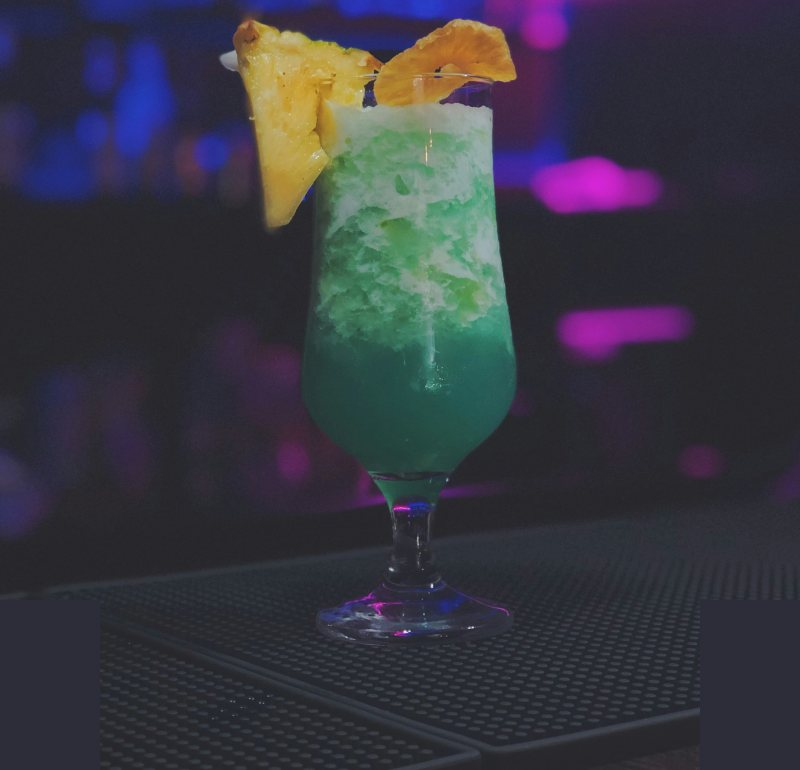
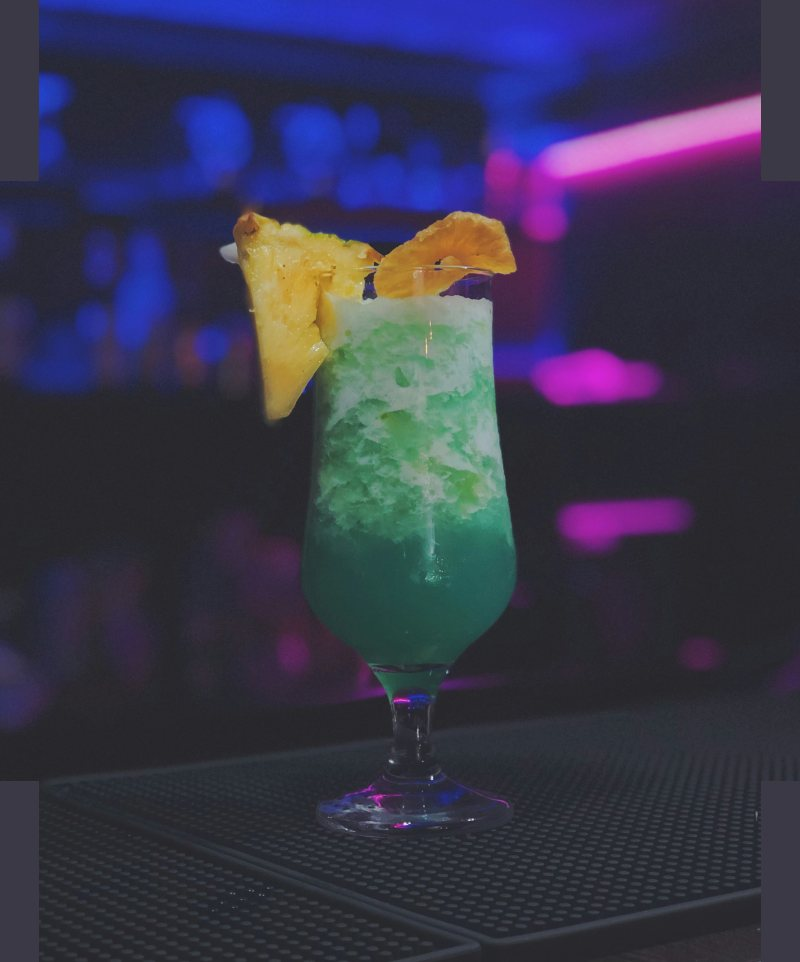
Photos en croix centrées sur le verre (v0.40.0)
- Les cadrages paysage et portrait partagent un même centre, placé au plus près
  du verre (en x et en y) ; la colonne portrait déborde en haut et en bas.
- Hauteur 600 à 1000 px selon la place disponible dans la photo d'origine ;
  bande paysage plus serrée sur les photos larges pour laisser une croix (Boulevardier…).
- Barracuda en 800 × 800, verre au centre.
- Affichage : chaque cadre (4:3, 16:9, 3:4, carré) est centré sur l'image.

Claude-Session: https://claude.ai/code/session_01MGrXtKPwEujzpoV9NF5CqB

diff --git a/app.css b/app.css
@@ -254,14 +254,15 @@ input[type=radio]{accent-color:var(--accent)}
 .card:hover{border-color:var(--muted);transform:translateY(-2px)}
 .cv{position:relative;overflow:hidden;aspect-ratio:4/3;max-width:100%;background:var(--surface-2);background:color-mix(in srgb,var(--c) 18%,var(--surface-2));display:grid;place-items:center;color:var(--fg)}
 .cv .glass{height:84%;width:auto}
-/* Photos : celles du catalogue sont « en croix » (800 px de large, 600 à 800 de haut) : les 600 px du haut forment le cadrage paysage,
-   la colonne centrale (3/4 de la largeur) le cadrage portrait ; les coins du bas ne servent à rien. --r = largeur / hauteur de l'image,
-   renseigné au chargement. On calcule la plus petite taille qui couvre le cadre sans sortir de l'une des deux zones :
-   ancrée en haut, la photo ne coupe jamais le haut du verre. Une photo 4:3 (prise dans l'appli) s'affiche comme un « cover » ancré en haut. */
+/* Photos : celles du catalogue sont « en croix » (800 px de large, 600 à 1000 de haut), centrées sur le verre :
+   la bande centrale de 600 px de haut forme le cadrage paysage (4:3), la colonne centrale (3/4 de la hauteur en largeur)
+   le cadrage portrait (3:4) ; les quatre coins ne servent à rien. --r = largeur / hauteur de l'image, renseigné au chargement.
+   On calcule la plus petite taille qui couvre le cadre sans sortir de l'une des deux zones, image centrée :
+   chaque cadre (4:3, 16:9, 3:4, carré…) reste centré sur le verre. Une photo 4:3 s'affiche comme un simple « cover » centré. */
 .cv,.dhero,.photo-prev,.lthumb,.mosaic>span,.moment-v{container-type:size}
-.cv img,.dhero img,.photo-prev img,.lthumb img,.mosaic img,.moment-v img{position:absolute;inset:auto;top:0;left:50%;transform:translateX(-50%);max-width:none;height:auto;object-fit:fill;display:block;
+.cv img,.dhero img,.photo-prev img,.lthumb img,.mosaic img,.moment-v img{position:absolute;inset:auto;top:50%;left:50%;transform:translate(-50%,-50%);max-width:none;height:auto;object-fit:fill;display:block;
   width:min(max(100cqw,133.334cqh),max(calc(133.334cqw * var(--r,1.3334)),calc(100cqh * var(--r,1.3334))))}
-@supports not (width:1cqw){.cv img,.dhero img,.photo-prev img,.lthumb img,.mosaic img,.moment-v img{inset:0;left:0;transform:none;width:100%;height:100%;object-fit:cover;object-position:50% 0}}
+@supports not (width:1cqw){.cv img,.dhero img,.photo-prev img,.lthumb img,.mosaic img,.moment-v img{inset:0;left:0;top:0;transform:none;width:100%;height:100%;object-fit:cover}}
 .pill{position:absolute;top:8px;left:8px;font:600 11px var(--font-body);padding:3px 8px;border-radius:99px;background:var(--surface);border:1px solid var(--line);color:var(--muted)}
 .pill.ok{background:var(--ok);border-color:var(--ok);color:var(--surface)}
 .pill.sub{color:var(--ok);border-color:var(--ok)}

diff --git a/app.js b/app.js
@@ -1,7 +1,7 @@
 /* Zeste : logique de l'application. Les données de départ sont dans data.js. */
 'use strict';
 
-const APP_VERSION = '0.39.0';
+const APP_VERSION = '0.40.0';
 const KEY = 'zeste-v1';
 const UNITS = ['ml', 'cl', ['oz', 'oz (→ ml)'], ['cup', 'cup (→ ml)'], 'g', ['', 'sans unité'], 'trait', 'goutte', 'c. de bar', 'c. à café', 'c. à soupe', 'pièce', 'feuille', 'brin', 'quartier', 'tranche', 'pincée', 'à compléter'];
 const PLURAL_UNITS = ['trait', 'goutte', 'pièce', 'feuille', 'brin', 'quartier', 'tranche', 'pincée'];
@@ -1480,7 +1480,7 @@ function openCrop(src) {
   const img = new Image();
   img.onload = () => {
     CROP.img = img; CROP.zoom = 1; $('#crop-zoom').value = 1; $('#crop-img').src = src; $('#crop').hidden = false; lockScroll();
-    requestAnimationFrame(() => { const f = $('#crop-frame'); CROP.W = f.clientWidth; CROP.H = f.clientHeight; CROP.s0 = Math.max(CROP.W / img.naturalWidth, CROP.H / img.naturalHeight); CROP.s = CROP.s0; CROP.x = (CROP.W - img.naturalWidth * CROP.s) / 2; CROP.y = /^photos\//.test(src) ? 0 : (CROP.H - img.naturalHeight * CROP.s) / 2; drawCrop(); });
+    requestAnimationFrame(() => { const f = $('#crop-frame'); CROP.W = f.clientWidth; CROP.H = f.clientHeight; CROP.s0 = Math.max(CROP.W / img.naturalWidth, CROP.H / img.naturalHeight); CROP.s = CROP.s0; CROP.x = (CROP.W - img.naturalWidth * CROP.s) / 2; CROP.y = (CROP.H - img.naturalHeight * CROP.s) / 2; drawCrop(); });
   };
   img.onerror = () => toast('Image illisible. Formats conseillés : JPEG ou PNG.');
   img.src = src;

diff --git a/data.js b/data.js
@@ -1266,10 +1266,10 @@ Object.keys(RECIPE_EDITS).forEach(id => { const r = RECIPES.find(x => x.id === i
 RECIPES.forEach(r => r.ings.forEach(i => { if (i.id === 'marasquin' && !i.alts.includes('kirsch')) i.alts = [...i.alts, 'kirsch']; }));
 
 /* Photos des recettes : fichiers du dossier photos/ (JPEG, 800 px de large).
-   Format « en croix » : les 600 px du haut forment le cadrage paysage (4:3) ; la colonne centrale (x de 100 à 700),
-   sur toute la hauteur (jusqu'à 800 px), forme le cadrage portrait (3:4). Les coins du bas, hors des deux cadrages, sont unis.
-   Une photo 800 × 600 classique reste valable. L'affichage choisit le cadrage selon la forme du cadre (voir app.css).
-   Une recette sans entrée garde l'illustration du verre. */
+   Format « en croix », centré sur le verre : la bande centrale de 600 px de haut forme le cadrage paysage (4:3) ;
+   la colonne centrale, large de 3/4 de la hauteur de l'image, sur toute la hauteur (jusqu'à 1000 px), le cadrage portrait (3:4).
+   Les quatre coins, hors des deux cadrages, sont unis. Une photo 800 × 600 classique reste valable.
+   L'affichage choisit le cadrage selon la forme du cadre (voir app.css). Une recette sans entrée garde l'illustration du verre. */
 const PHOTOS = {
   'bandung': 'photos/bandung.jpg',
   'barracuda': 'photos/barracuda.jpg',

diff --git a/sw.js b/sw.js
@@ -1,6 +1,6 @@
 /* Zeste : fonctionnement hors ligne.
    Changer VERSION à chaque mise en ligne : les appareils proposent alors la mise à jour. */
-const VERSION = 'zeste-0.39.0';
+const VERSION = 'zeste-0.40.0';
 const ASSETS = [
   './', 'index.html', 'app.css', 'app.js', 'data.js', 'infos.js', 'manifest.webmanifest',
   'icons/icon.svg', 'icons/icon-192.png', 'icons/icon-512.png', 'icons/icon-maskable-192.png', 'icons/icon-maskable-512.png', 'icons/apple-touch-icon.png', 'icons/favicon-32.png',

diff --git a/README.md b/README.md
@@ -37,13 +37,13 @@ Les appareils qui ont déjà l'appli affichent alors « Une nouvelle version de 
 
 Fichiers JPEG de 800 px de large dans `photos/`, nommés d'après l'id de la recette (`photos/french-75.jpg`), déclarés dans `PHOTOS` (`data.js`).
 
-Format « en croix », pour un seul fichier par recette quel que soit l'affichage :
+Format « en croix », centré sur le verre, pour un seul fichier par recette quel que soit l'affichage :
 
-- les **600 px du haut**, sur toute la largeur : cadrage paysage (4:3), utilisé par le catalogue et la fiche recette ;
-- la **colonne centrale** (x de 100 à 700), sur toute la hauteur (600 à 800 px) : cadrage portrait (3:4), utilisé par les cartes de l'accueil ; il montre le bas du verre que le paysage coupe ;
-- les **deux coins du bas** ne servent à aucun cadrage : couleur unie, qui ne pèse presque rien.
+- la **bande centrale de 600 px de haut**, sur toute la largeur : cadrage paysage (4:3), utilisé par le catalogue et la fiche recette ;
+- la **colonne centrale**, large des 3/4 de la hauteur de l'image, sur toute la hauteur (600 à 1000 px) : cadrage portrait (3:4), utilisé par les cartes de l'accueil ;
+- les **quatre coins** ne servent à aucun cadrage : couleur unie, qui ne pèse presque rien.
 
-Le haut du verre doit toujours être dans les 600 px du haut : les cadres sont ancrés en haut et ne coupent jamais le haut de l'image. Une photo 800 × 600 classique fonctionne aussi (le portrait prend alors la bande centrale).
+Les deux cadrages ont le même centre, placé sur le verre : chaque cadre de l'appli (4:3, 16:9, 3:4, carré) reste centré sur lui. Une photo 800 × 600 classique fonctionne aussi.
 
 ## Photos et licences
 
